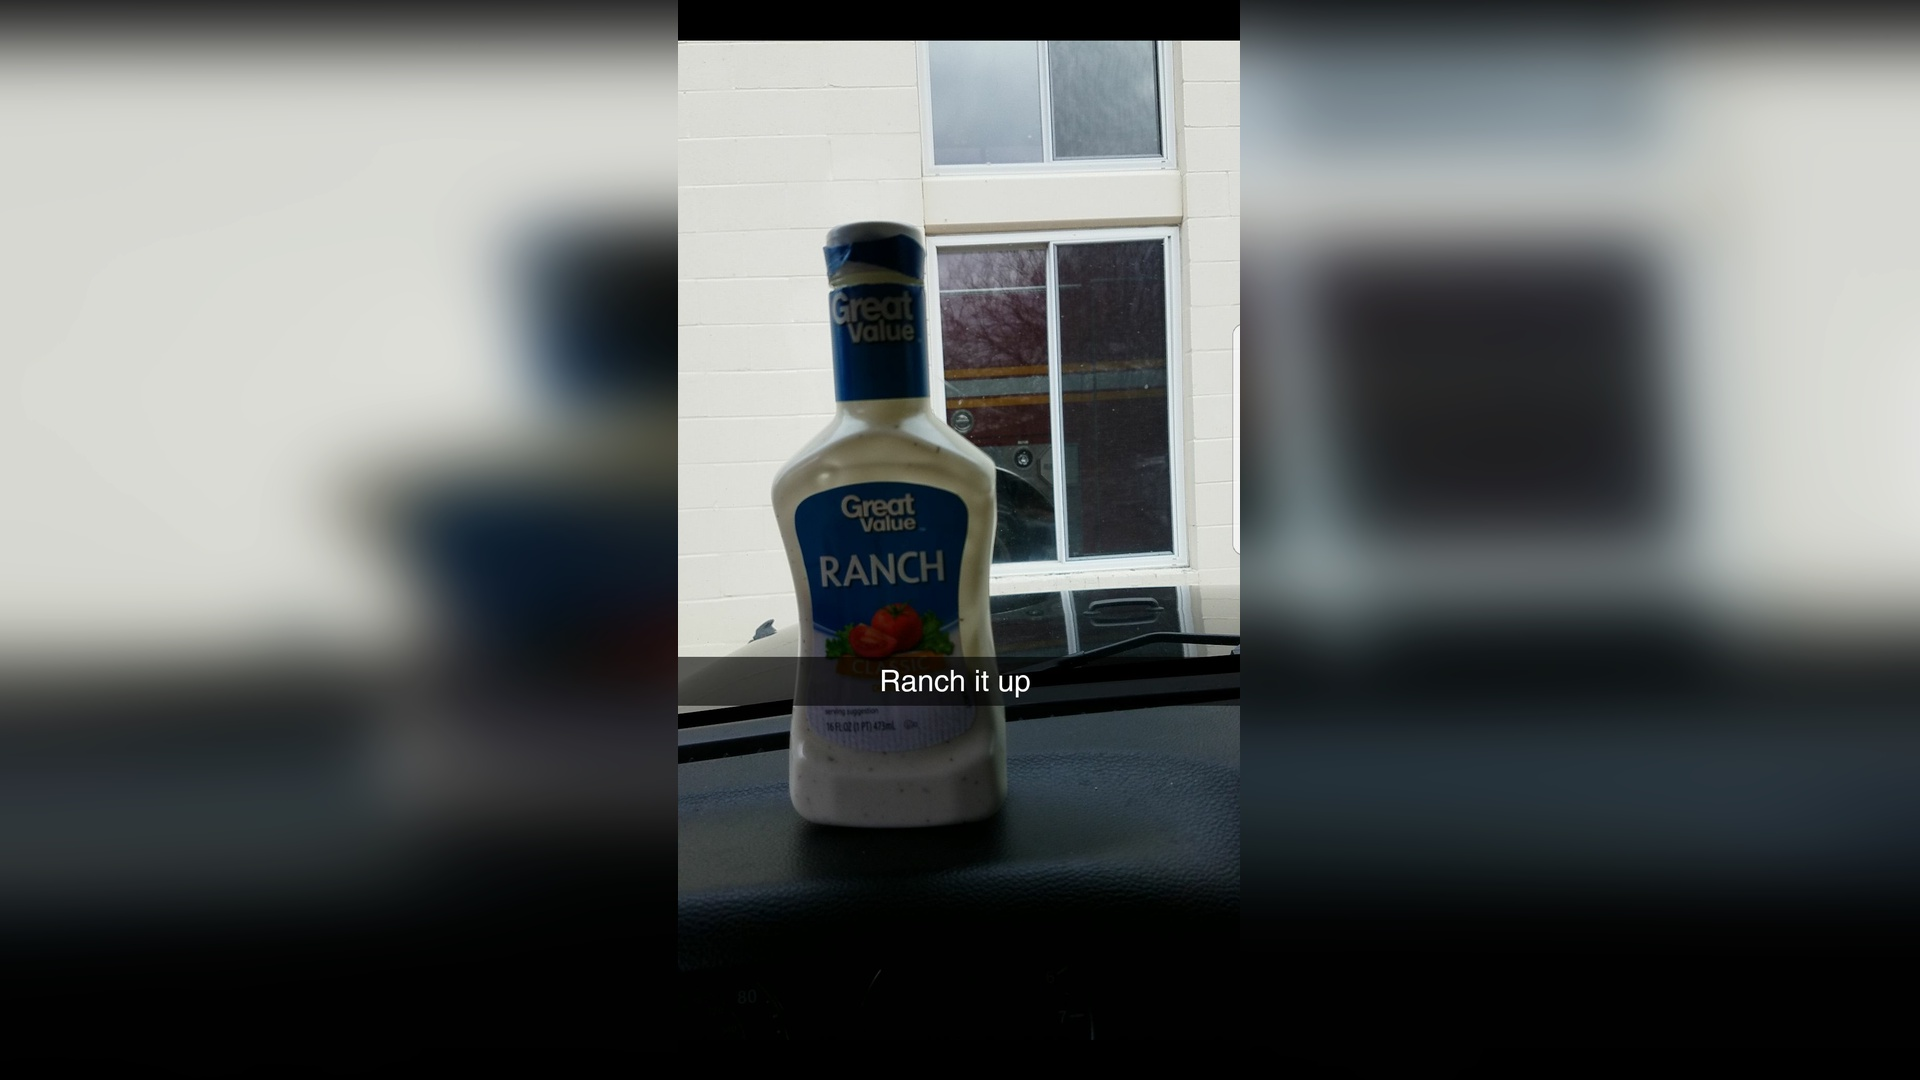
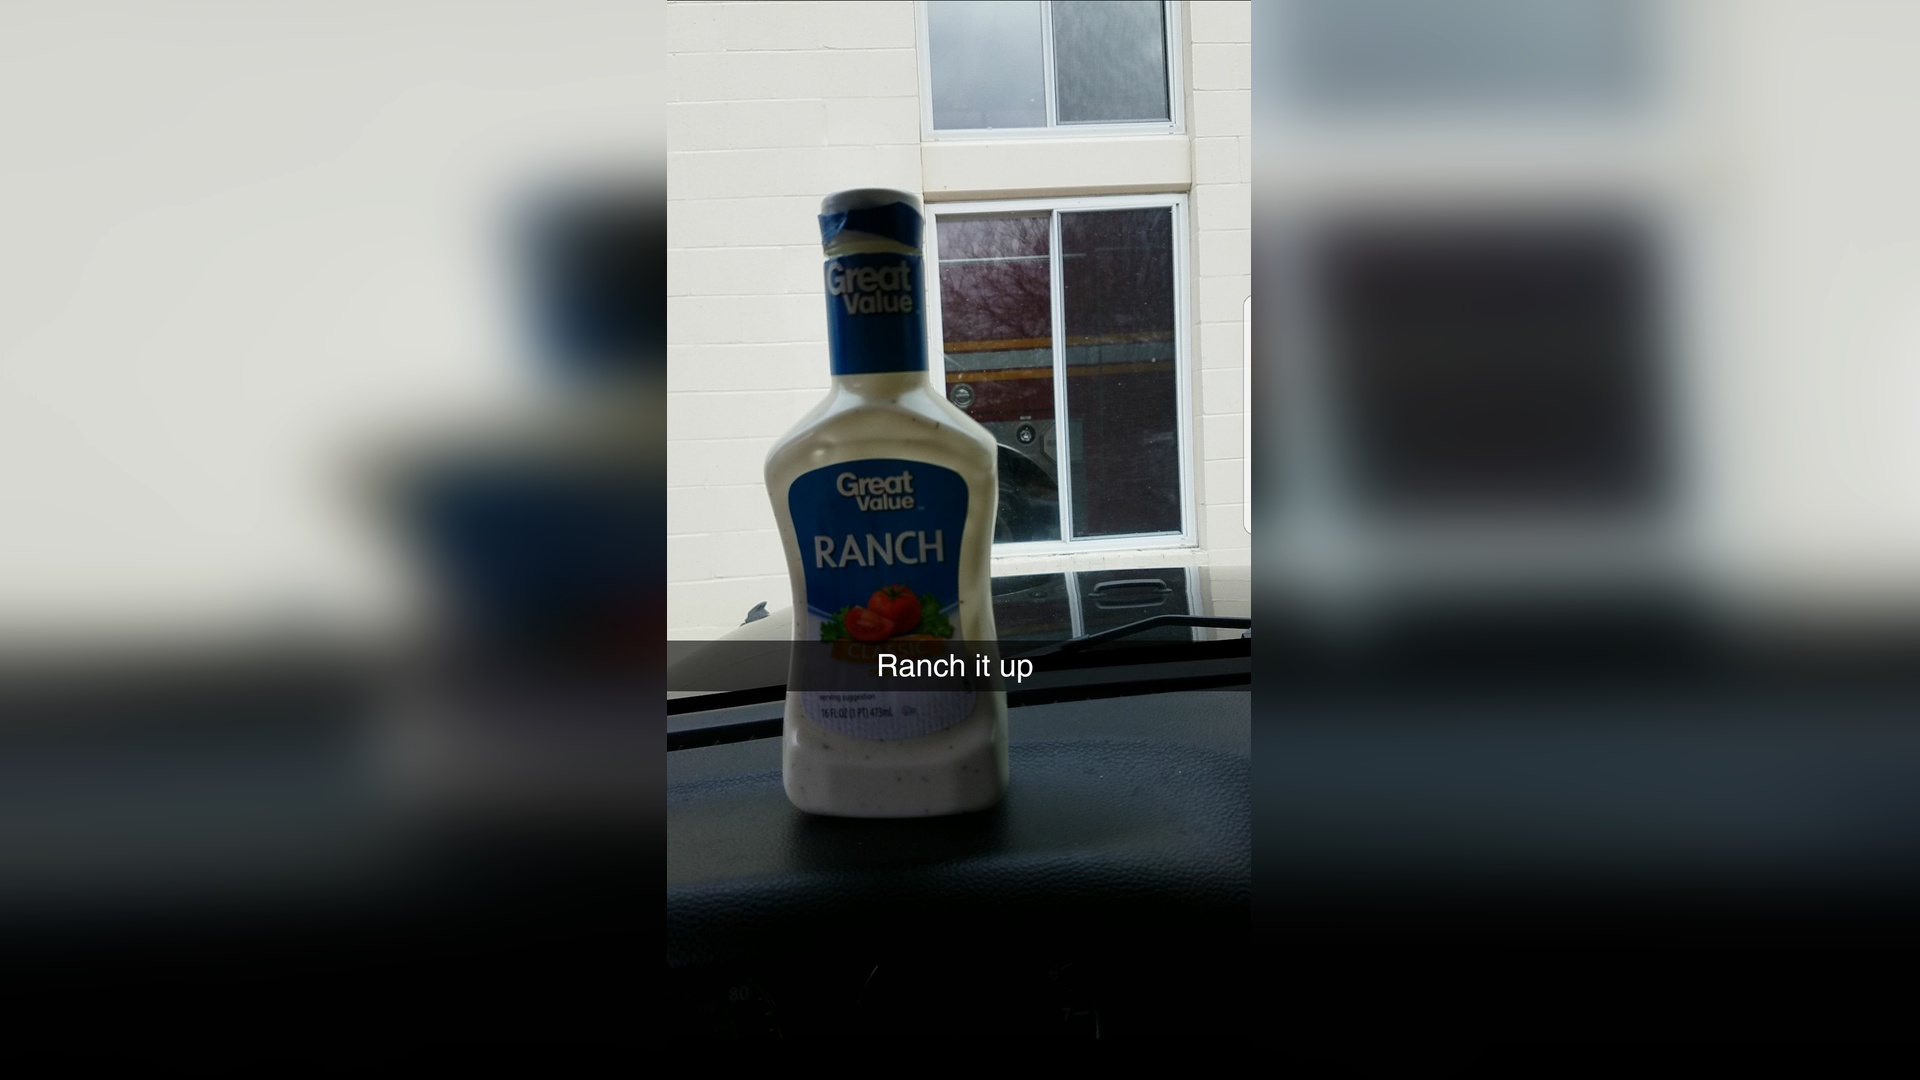
Fix upper cropping, update example

diff --git a/main.go b/main.go
@@ -15,7 +15,7 @@ var (
 	in                    = flag.String("in", "", "Input image name")
 	lowerCropBegin        = flag.Uint("lower-crop-begin-compare", 2, "Number of pixels to skip before comparison starts")
 	lowerCropHorizOffset  = flag.Uint("lower-crop-horizontal-offset", 10, "Offset from the left to compare for lower crop")
-	lowerCropRgb          = flag.Uint("lower-crop-rgb", 61680, "R/G/B value 0...65535 to crop from the bottom")
+	lowerCropRgb          = flag.Uint("lower-crop-rgb", 61680, "R/G/B value 0...65535 to crop from the bottom (61680 is default for Android)")
 	maxLowerResize        = flag.Uint("max-lower-resize", 200, "Maximum number of rows to crop from bottom")
 	maxUpperResize        = flag.Uint("max-upper-resize", 200, "Maximum number of rows to crop from top")
 	out                   = flag.String("out", "", "Output image name")
@@ -44,7 +44,7 @@ func main() {
 	bottom := uint(src.Bounds().Max.Y)
 	for i := bottom - *lowerCropBegin; i >= bottom-(*maxLowerResize*2); i-- {
 		r, g, b, _ := src.At(int(*lowerCropHorizOffset), int(i)).RGBA()
-		//log.Printf("x = 10, y = %d, r = %d, g = %d, b = %d", i, r, g, b)
+		//log.Printf("x = %d, y = %d, r = %d, g = %d, b = %d", int(*upperCropHorizOffset), i, r, g, b)
 		bottom = i
 		if r != uint32(*lowerCropRgb) || g != uint32(*lowerCropRgb) || b != uint32(*lowerCropRgb) {
 			break
@@ -56,6 +56,7 @@ func main() {
 	top := uint(0)
 	for i := top + *upperCropBegin; i <= (*maxUpperResize * 2); i++ {
 		r, g, b, _ := src.At(int(*upperCropHorizOffset), int(i)).RGBA()
+		//log.Printf("x = %d, y = %d, r = %d, g = %d, b = %d", int(*upperCropHorizOffset), i, r, g, b)
 		if r != uint32(*upperCropRgb) || g != uint32(*upperCropRgb) || b != uint32(*upperCropRgb) {
 			break
 		}
@@ -70,7 +71,11 @@ func main() {
 		log.Printf("Current bounds: %d, %d", src.Bounds().Max.X, src.Bounds().Max.Y)
 		log.Printf("Resize detected; clipping bottom to %d", bottom)
 		//src = imaging.Crop(src, image.Rect(0, src.Bounds().Max.X, 0, bottom))
-		src = imaging.CropAnchor(src, src.Bounds().Max.X, int(bottom), imaging.TopLeft)
+		if top != 0 {
+			src = imaging.Crop(src, image.Rectangle{Min: image.Point{src.Bounds().Min.X, int(top)}, Max: image.Point{src.Bounds().Max.X, int(bottom)}})
+		} else {
+			src = imaging.CropAnchor(src, src.Bounds().Max.X, int(bottom), imaging.TopLeft)
+		}
 	}
 
 	// Resize height to final keeping aspect ratio

diff --git a/README.md b/README.md
@@ -2,7 +2,8 @@
 
 Creates an image from a phone portrait mode image. Includes the following features:
 
-* Detection of lower status bar with removal
+* Detection of lower status bar with removal (configurable)
+* Detection of upper solid area with removal (configurable)
 * Creates blurred background from original image to fill out the aspect ratio
 * All parameters are configurable from the command line
 
